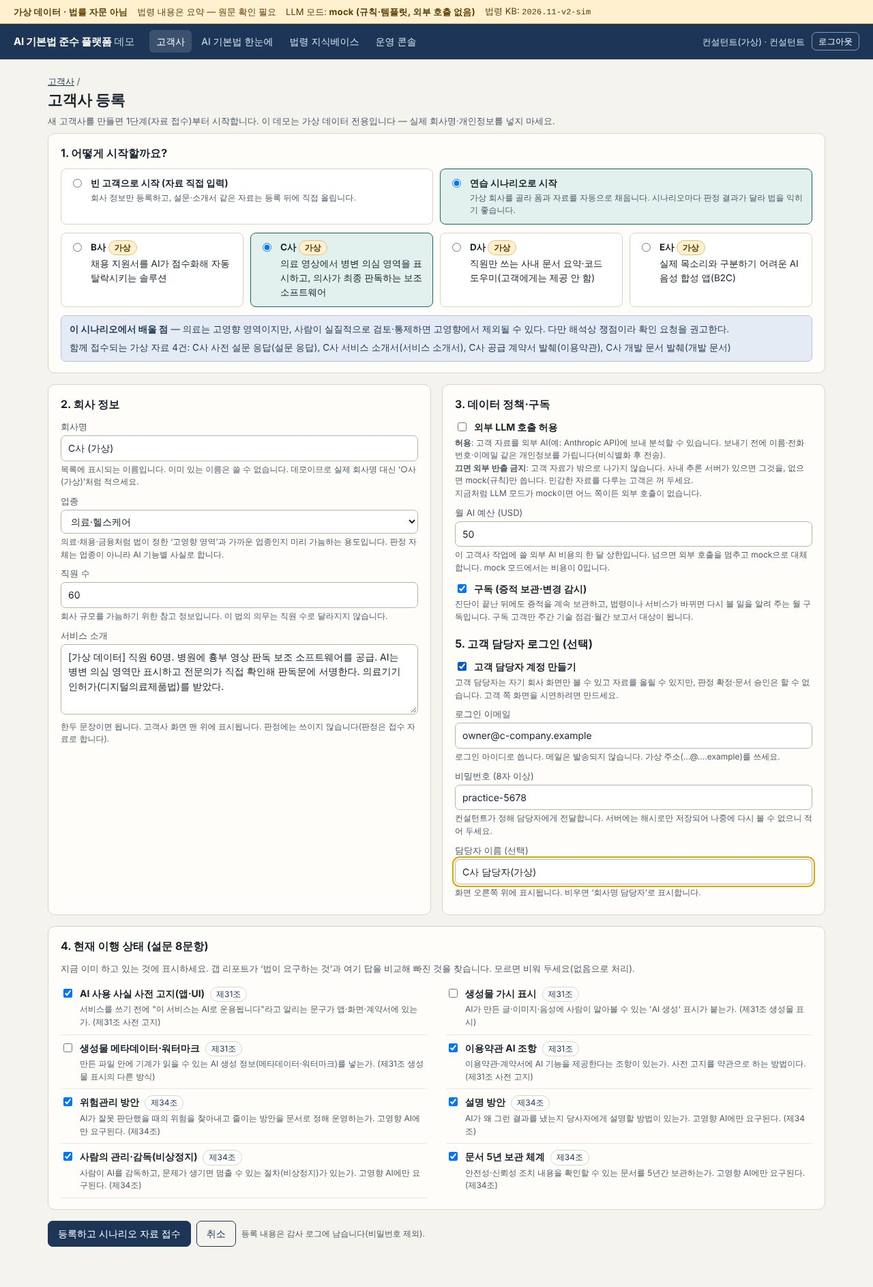
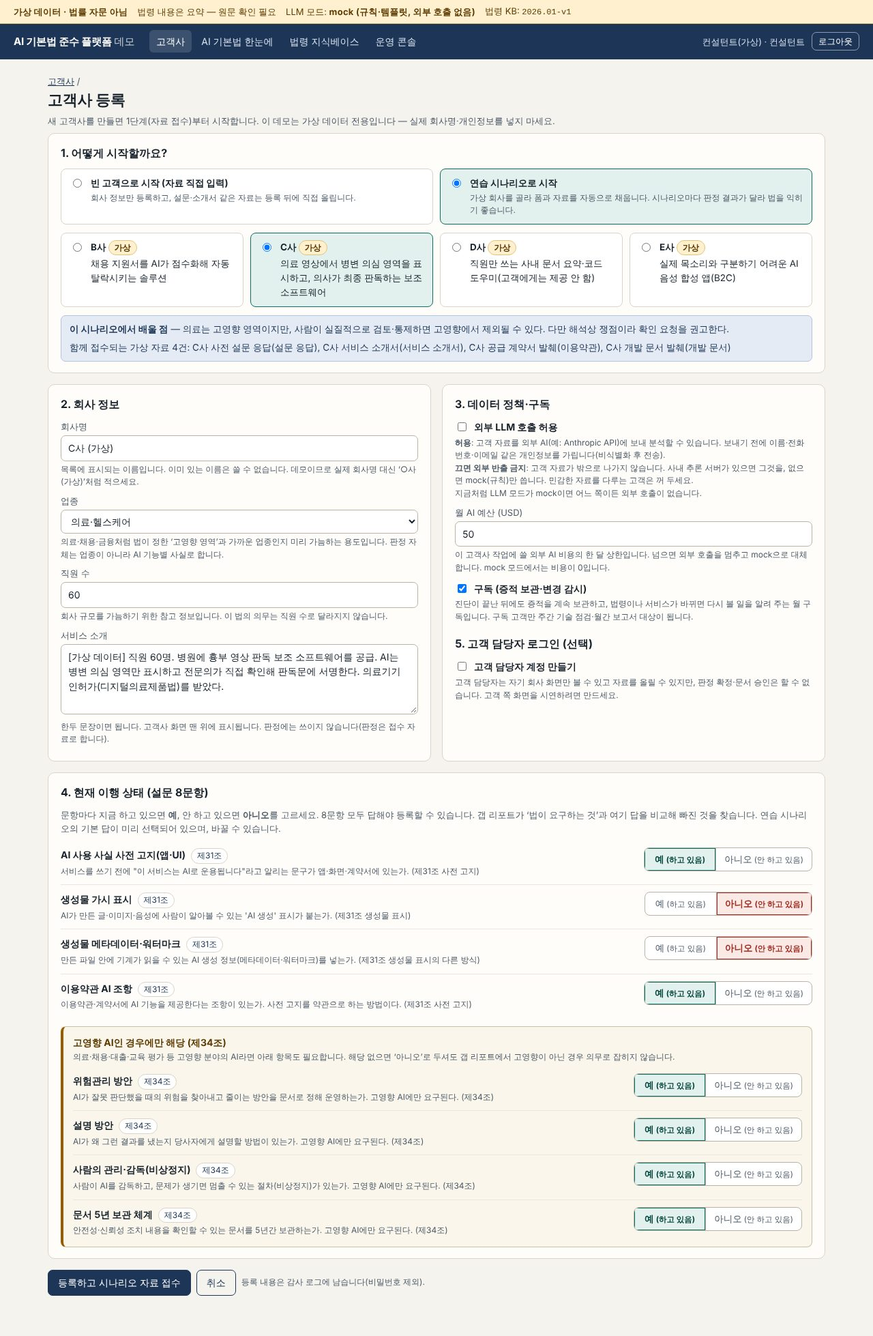
웹: 설문 8문항을 예/아니오 선택으로 바꾸고 고영향(제34조) 항목을 안쪽 상자로 묶음
- 등록 폼 "4. 현재 이행 상태": 체크박스 → 문항별 예(하고 있음)/아니오(안 하고 있음) 라디오 그룹
  - 빈 고객은 미리 선택 없음, 8문항 모두 답해야 등록(안 고른 문항 옆에 안내 표시)
  - 연습 시나리오를 고르면 기본 답이 미리 선택되고 바꿀 수 있음
- 제31조 4문항은 그대로, 제34조 4문항은 "고영향 AI인 경우에만 해당 (제34조)" 상자로 분리
- 개요 화면 "현재 이행 상태(설문)"도 같은 두 묶음, 배지는 예/아니오
- API·DB 변경 없음(답은 boolean, API에서 빠진 답은 전과 같이 false)
- 문서: 사용 가이드 문구와 등록 폼 캡처 갱신, 검증 기록 추가

Claude-Session: https://claude.ai/code/session_01CRnCUpRNst2zzBjfRGCeRx

Changed region(s): [[0.0, 0.0, 0.9375, 0.9841], [0.8125, 0.0, 1.0, 0.0615], [0.3125, 0.9533, 0.3438, 0.9841]]

diff --git a/web/app/customers/new/page.tsx b/web/app/customers/new/page.tsx
@@ -1,19 +1,20 @@
 "use client";
 import Link from "next/link";
 import { useRouter } from "next/navigation";
-import { useEffect, useState } from "react";
+import { useEffect, useRef, useState } from "react";
 import { api, useLoad } from "@/lib/api";
 import { useSession } from "@/components/Shell";
-import { DOC_KIND } from "@/lib/labels";
+import { DOC_KIND, isHighImpactStateKey } from "@/lib/labels";
 
 type Scenario = {
   key: string; letter: string; name: string; title: string; industry: string; employees: number; description: string;
   allow_external: boolean; monthly_budget_usd: number; subscribed: boolean; current_state: Record<string, boolean>;
   selectable: boolean; lesson: string; points: string[]; documents: { kind: string; title: string }[];
 };
+type StateItem = { key: string; label: string; help: string; clause_ids: string[] };
 type Catalog = {
   industries: string[];
-  state_items: { key: string; label: string; help: string; clause_ids: string[] }[];
+  state_items: StateItem[];
   scenarios: Scenario[];
 };
 
@@ -28,7 +29,10 @@ export default function NewCustomerPage() {
   const [mode, setMode] = useState<"blank" | "scenario">("blank");
   const [scenario, setScenario] = useState("");
   const [form, setForm] = useState(EMPTY);
+  // 설문 답: true=예, false=아니오, 키 없음=아직 답하지 않음(등록 불가)
   const [state, setState] = useState<Record<string, boolean>>({});
+  const [tried, setTried] = useState(false); // 등록을 한 번 눌렀는지 — 그 뒤에만 '답하지 않음' 안내를 보인다
+  const surveyRef = useRef<HTMLDivElement>(null);
   const [withContact, setWithContact] = useState(false);
   const [contact, setContact] = useState({ email: "", password: "", name: "" });
   const [error, setError] = useState("");
@@ -37,6 +41,8 @@ export default function NewCustomerPage() {
   const selectable = (cat.data?.scenarios ?? []).filter((s) => s.selectable);
   const picked = selectable.find((s) => s.key === scenario);
   const ready = !!cat.data && !!existing.data; // 기존 회사명을 알아야 중복 없는 이름을 제안할 수 있다
+  const items = cat.data?.state_items ?? [];
+  const unanswered = items.filter((i) => typeof state[i.key] !== "boolean");
 
   function uniqueName(base: string): string {
     const taken = new Set((existing.data ?? []).map((c) => c.name));
@@ -56,12 +62,16 @@ export default function NewCustomerPage() {
     setForm({ name: uniqueName(s.name), industry: s.industry, employees: String(s.employees), description: s.description,
       allow_external: s.allow_external, monthly_budget_usd: String(s.monthly_budget_usd), subscribed: s.subscribed });
     setState({ ...s.current_state });
+    setTried(false);
+    setError("");
   }
   function blank() {
     setMode("blank");
     setScenario("");
     setForm(EMPTY);
     setState({});
+    setTried(false);
+    setError("");
   }
 
   // 학습 화면에서 넘어온 경우(?scenario=b) 그 시나리오를 미리 고른다
@@ -75,12 +85,21 @@ export default function NewCustomerPage() {
   async function submit(e: React.FormEvent) {
     e.preventDefault();
     setError("");
+    if (!cat.data) return;
+    if (unanswered.length > 0) {
+      setTried(true);
+      setError(`‘4. 현재 이행 상태’에서 답하지 않은 문항이 ${unanswered.length}개 있습니다. 문항마다 예 또는 아니오를 골라 주세요.`);
+      const first = surveyRef.current?.querySelector<HTMLInputElement>(`input[name="q-${unanswered[0].key}"]`);
+      first?.focus();
+      first?.closest(".q")?.scrollIntoView({ block: "center" });
+      return;
+    }
     setBusy(true);
     try {
       const body: any = {
         name: form.name, industry: form.industry, employees: Number(form.employees || 0), description: form.description,
         allow_external: form.allow_external, monthly_budget_usd: Number(form.monthly_budget_usd || 0), subscribed: form.subscribed,
-        current_state: Object.fromEntries((cat.data?.state_items ?? []).map((i) => [i.key, !!state[i.key]])),
+        current_state: Object.fromEntries(items.map((i) => [i.key, state[i.key] === true])),
         scenario: mode === "scenario" ? scenario : "",
       };
       if (withContact) body.contact = contact;
@@ -90,6 +109,35 @@ export default function NewCustomerPage() {
       setError((err as Error).message);
       setBusy(false);
     }
+  }
+
+  function question(i: StateItem) {
+    const v = state[i.key];
+    const missing = tried && typeof v !== "boolean";
+    const set = (val: boolean) => setState((prev) => ({ ...prev, [i.key]: val }));
+    return (
+      <div key={i.key} className={`q${missing ? " missing" : ""}`}>
+        <div className="qtext">
+          <span id={`ql-${i.key}`}><b>{i.label}</b></span>{" "}
+          {i.clause_ids.map((c) => <Link key={c} href={`/kb#${c}`} target="_blank" className="tag" style={{ marginLeft: 4 }}>{c.startsWith("art31") ? "제31조" : c === "art34" ? "제34조" : c}</Link>)}
+          <span className="hint" id={`qh-${i.key}`}>{i.help}</span>
+        </div>
+        <div className="qans">
+          <div className="seg" role="radiogroup" aria-labelledby={`ql-${i.key}`} aria-describedby={`qh-${i.key}${missing ? ` qe-${i.key}` : ""}`}
+            aria-required="true" aria-invalid={missing || undefined}>
+            <label className={v === true ? "on yes" : ""}>
+              <input type="radio" name={`q-${i.key}`} value="yes" checked={v === true} onChange={() => set(true)} />
+              <span>예<small>(하고 있음)</small></span>
+            </label>
+            <label className={v === false ? "on no" : ""}>
+              <input type="radio" name={`q-${i.key}`} value="no" checked={v === false} onChange={() => set(false)} />
+              <span>아니오<small>(안 하고 있음)</small></span>
+            </label>
+          </div>
+          {missing && <span className="qerr" id={`qe-${i.key}`} role="alert">예 또는 아니오를 선택하세요</span>}
+        </div>
+      </div>
+    );
   }
 
   if (user && !allowed) return <div className="msg err">고객사 등록은 컨설턴트·운영자만 할 수 있습니다.</div>;
@@ -204,17 +252,25 @@ export default function NewCustomerPage() {
 
         <div className="card">
           <h2>4. 현재 이행 상태 (설문 8문항)</h2>
-          <p className="sub">지금 이미 하고 있는 것에 표시하세요. 갭 리포트가 ‘법이 요구하는 것’과 여기 답을 비교해 빠진 것을 찾습니다. 모르면 비워 두세요(없음으로 처리).</p>
-          <div className="qlist">
-            {(cat.data?.state_items ?? []).map((i) => (
-              <label key={i.key} className="check q">
-                <input type="checkbox" checked={!!state[i.key]} onChange={(e) => setState({ ...state, [i.key]: e.target.checked })} />
-                <span>
-                  <b>{i.label}</b> {i.clause_ids.map((c) => <Link key={c} href={`/kb#${c}`} target="_blank" className="tag" style={{ marginLeft: 4 }}>{c.startsWith("art31") ? "제31조" : c === "art34" ? "제34조" : c}</Link>)}
-                  <span className="hint">{i.help}</span>
-                </span>
-              </label>
-            ))}
+          <p className="sub">
+            문항마다 지금 하고 있으면 <b>예</b>, 안 하고 있으면 <b>아니오</b>를 고르세요. 8문항 모두 답해야 등록할 수 있습니다.
+            갭 리포트가 ‘법이 요구하는 것’과 여기 답을 비교해 빠진 것을 찾습니다.
+            {mode === "scenario" && " 연습 시나리오의 기본 답이 미리 선택되어 있으며, 바꿀 수 있습니다."}
+          </p>
+          <div ref={surveyRef}>
+            <div className="qlist">
+              {items.filter((i) => !isHighImpactStateKey(i.key)).map(question)}
+            </div>
+            <section className="qbox" aria-labelledby="qbox-title">
+              <h3 id="qbox-title">고영향 AI인 경우에만 해당 (제34조)</h3>
+              <p className="hint">
+                의료·채용·대출·교육 평가 등 고영향 분야의 AI라면 아래 항목도 필요합니다.
+                해당 없으면 ‘아니오’로 두셔도 갭 리포트에서 고영향이 아닌 경우 의무로 잡히지 않습니다.
+              </p>
+              <div className="qlist">
+                {items.filter((i) => isHighImpactStateKey(i.key)).map(question)}
+              </div>
+            </section>
           </div>
         </div>
 

diff --git a/docs/guide/index.html b/docs/guide/index.html
@@ -202,7 +202,7 @@ footer{margin-top:40px;padding-top:16px;border-top:1px solid var(--line);font-si
     <div class="quad">
       <div><h4>무엇인가</h4><p>고객 기본 정보, 고객이 설문으로 답한 현재 이행 상태, 데이터 정책, 그리고 8단계 버튼이 모인 출발 화면</p></div>
       <div><h4>어떻게 쓰나</h4><ol><li><span class="btn">샘플 자료 불러오기(가상)</span> → 가상 자료 4건이 들어옴</li><li>오른쪽 버튼을 위에서부터 차례로 누르면 단계가 진행됨</li><li>실제 고객이라면 아래 "자료 올리기"에 문서를 넣음</li></ol></div>
-      <div><h4>결과 읽는 법</h4><ul><li><b>현재 이행 상태(설문)</b>: 빨간 "없음" = 고객이 아직 안 하고 있는 것. A사는 생성물 가시 표시만 "있음"</li><li><b>외부 LLM 호출</b>: "허용(비식별화 후 전송)" = 이름·연락처 등을 가린 뒤 AI에 보냄</li><li><b>월 예산</b>: 이 고객에게 쓸 AI 비용 한도와 사용액</li></ul></div>
+      <div><h4>결과 읽는 법</h4><ul><li><b>현재 이행 상태(설문)</b>: 빨간 "아니오" = 고객이 아직 안 하고 있는 것. A사는 생성물 가시 표시만 "예"(이전 캡처에는 "있음/없음"). 고영향 AI에만 해당하는 4항목(제34조)은 안쪽 상자로 묶임</li><li><b>외부 LLM 호출</b>: "허용(비식별화 후 전송)" = 이름·연락처 등을 가린 뒤 AI에 보냄</li><li><b>월 예산</b>: 이 고객에게 쓸 AI 비용 한도와 사용액</li></ul></div>
       <div><h4>주의</h4><p><span class="btn">외부 반출 금지로 전환</span>을 누르면 이 고객 자료는 외부 AI(Claude)로 절대 나가지 않고 내부 모델이나 규칙으로만 처리됩니다.</p></div>
       <div class="say"><h4>경영진에게 한 줄</h4><p>"고객이 자료를 올리면 버튼 몇 번으로 진단부터 보관까지 진행되고, 고객 자료를 외부로 보낼지 말지도 고객별로 막을 수 있습니다."</p></div>
     </div>
@@ -349,7 +349,7 @@ footer{margin-top:40px;padding-top:16px;border-top:1px solid var(--line);font-si
     <div class="quad">
       <div><h4>무엇인가</h4><p>새 고객사를 만드는 화면. 등록하면 1단계(자료 접수)부터 A사와 같은 8단계를 처음부터 밟습니다.</p></div>
       <div><h4>어떻게 쓰나</h4><ul><li><b>빈 고객으로 시작</b>: 회사 정보만 넣고 자료는 나중에 직접 올림</li><li><b>연습 시나리오로 시작</b>: B~E사 중 하나를 고르면 폼과 가상 자료가 채워짐</li><li>고객 담당자 로그인(이메일·비밀번호)을 함께 만들 수 있음</li></ul></div>
-      <div><h4>항목 읽는 법</h4><ul><li><b>외부 LLM 호출 허용</b>: 켜면 개인정보를 가린 뒤 외부 AI로 전송, 끄면 외부 반출 금지</li><li><b>현재 이행 상태 8문항</b>: 지금 이미 하고 있는 것. 갭 리포트가 이 답과 법의 요구를 비교</li></ul></div>
+      <div><h4>항목 읽는 법</h4><ul><li><b>외부 LLM 호출 허용</b>: 켜면 개인정보를 가린 뒤 외부 AI로 전송, 끄면 외부 반출 금지</li><li><b>현재 이행 상태 8문항</b>: 문항마다 예(하고 있음) / 아니오(안 하고 있음)를 고름. 8문항 모두 답해야 등록됨(시나리오는 기본 답이 미리 선택). 갭 리포트가 이 답과 법의 요구를 비교</li><li><b>안쪽 상자 "고영향 AI인 경우에만 해당 (제34조)"</b>: 고영향 후보가 아니면 "아니오"여도 갭으로 잡히지 않음</li></ul></div>
       <div><h4>주의</h4><p>같은 회사명은 다시 쓸 수 없습니다. 가상 데이터 전용이므로 실제 회사명·개인정보를 넣지 마세요. 등록은 감사 로그에 남습니다.</p></div>
       <div class="say"><h4>경영진에게 한 줄</h4><p>"새 고객이 오면 여기서 등록하고, 그 순간부터 진단 8단계가 같은 방식으로 돌아갑니다."</p></div>
     </div>
@@ -392,7 +392,7 @@ footer{margin-top:40px;padding-top:16px;border-top:1px solid var(--line);font-si
   <p class="note">consultant@demo로 로그인한 상태에서 시작합니다. A사를 처음부터 보여주려면 개요에서 "샘플 자료 불러오기(가상)"부터 누르세요.</p>
   <ol class="script">
     <li><span class="t">0~1분</span><div><b>문제 제기</b>: "AI 기본법이 1월에 시행됐고 과태료 계도기간이 끝나면 고지 위반만으로 3천만원입니다. 생성형 AI를 서비스에 쓰는 입주사들이 대상입니다."</div></li>
-    <li><span class="t">1~2분</span><div><b>개요·자료</b>: 가상 고객 A사 소개, 설문상 빨간 "없음" 항목들</div></li>
+    <li><span class="t">1~2분</span><div><b>개요·자료</b>: 가상 고객 A사 소개, 설문상 빨간 "아니오" 항목들</div></li>
     <li><span class="t">2~3분</span><div><b>AI 인벤토리</b>: "AI가 문서를 읽고 AI 3개를 찾았고, 모든 내용에 출처가 있습니다."</div></li>
     <li><span class="t">3~5분</span><div><b>판정</b>: 이미지 생성 판정 하나를 펼쳐 근거 조문과 원문을 보여주고, 고객문의 요약의 "내부 업무용 예외"를 대비해서 보여줌. "확정은 사람이 합니다."</div></li>
     <li><span class="t">5~6분</span><div><b>갭 리포트</b>: "고칠 것 3건, 담당·기한까지 나옵니다. 여기까지가 진단 상품입니다."</div></li>

diff --git a/web/app/globals.css b/web/app/globals.css
@@ -104,10 +104,30 @@ label.pick.on { border-color: var(--accent); background: var(--accent-soft); }
 label.pick input, label.check input { width: auto; margin-top: 4px; flex: none; }
 label.pick > span { display: flex; flex-direction: column; gap: 2px; }
 label.check { display: flex; gap: 8px; align-items: flex-start; color: var(--ink); font-size: 14px; margin: 10px 0 2px; cursor: pointer; }
-label.check.q { padding: 8px 0; margin: 0; border-bottom: 1px solid #ebe7dd; }
-label.check.q:last-child { border-bottom: 0; }
-label.check.q .hint { display: block; margin-top: 2px; }
-.qlist { display: grid; grid-template-columns: repeat(auto-fit, minmax(420px, 1fr)); column-gap: 28px; }
+/* 설문 문항: 왼쪽 설명, 오른쪽 예/아니오 */
+.q { display: flex; gap: 8px 20px; align-items: flex-start; justify-content: space-between; flex-wrap: wrap; padding: 10px 0; border-bottom: 1px solid #ebe7dd; font-size: 14px; }
+.qlist > .q:last-child { border-bottom: 0; }
+.q .qtext { flex: 1 1 340px; min-width: 0; }
+.q .qtext .hint { display: block; margin-top: 2px; }
+.q .qans { flex: none; display: flex; flex-direction: column; align-items: flex-end; gap: 4px; }
+.q.missing .seg { border-color: var(--bad); box-shadow: 0 0 0 2px var(--bad-soft); }
+.qerr { font-size: 12px; font-weight: 600; color: var(--bad); }
+.seg { display: inline-flex; border: 1px solid #b9b3a5; border-radius: 8px; background: #fff; overflow: hidden; }
+.seg label { position: relative; margin: 0; padding: 6px 12px; min-width: 104px; text-align: center; font-size: 13.5px; color: var(--ink-2); cursor: pointer; white-space: nowrap; }
+.seg label + label { border-left: 1px solid #b9b3a5; }
+.seg input { position: absolute; inset: 0; width: 100%; height: 100%; margin: 0; opacity: 0; cursor: pointer; }
+.seg small { font-size: 11.5px; margin-left: 3px; }
+.seg label:hover { background: #f3f0e8; }
+.seg label.on { font-weight: 700; }
+.seg label.on.yes { background: var(--accent-soft); color: #07483e; box-shadow: inset 0 0 0 1px var(--accent); }
+.seg label.on.no { background: var(--bad-soft); color: var(--bad); box-shadow: inset 0 0 0 1px var(--bad); }
+.seg label:focus-within { outline: 2px solid var(--navy); outline-offset: -2px; }
+/* 고영향(제34조) 항목을 묶는 안쪽 상자 */
+.qbox { margin-top: 12px; padding: 12px 14px 4px; border: 1px solid #c9bfa6; border-left: 4px solid var(--warn); border-radius: 8px; background: #faf6ec; }
+.qbox h3 { margin: 0 0 2px; font-size: 14px; color: #5c3a00; }
+.qbox > .hint { margin: 0 0 4px; }
+.qbox.ro { margin-top: 8px; padding: 8px 10px; }
+.qbox.ro h3 { font-size: 12.5px; margin-bottom: 4px; }
 form p.hint { margin: 3px 0 6px; }
 a.tag { text-decoration: none; }
 a.tag:hover { border-color: var(--navy); }

diff --git a/web/app/customers/[id]/page.tsx b/web/app/customers/[id]/page.tsx
@@ -4,7 +4,7 @@ import { useState } from "react";
 import { api, fmt, useLoad } from "@/lib/api";
 import { Action, CustomerFrame, useCustomer } from "@/components/CustomerFrame";
 import { useSession } from "@/components/Shell";
-import { DOC_KIND } from "@/lib/labels";
+import { DOC_KIND, isHighImpactStateKey } from "@/lib/labels";
 import { STEP_HELP } from "@/lib/learn";
 
 const EXAMPLE_DOC = `[가상 데이터] 서비스 소개 메모
@@ -60,6 +60,11 @@ export default function CustomerOverview() {
       el: <Action label="증적 보관" path={`${base}/evidence/store-package`} roles={["consultant"]} onDone={reloadAll} /> },
   ];
 
+  const stateEntries = Object.entries(customer?.current_state ?? {}) as [string, boolean][];
+  const stateRow = ([k, v]: [string, boolean]) => (
+    <li key={k}>{meta?.state_labels[k] ?? k}: {v ? <span className="tag ok">예</span> : <span className="tag bad">아니오</span>}</li>
+  );
+
   const sc = (cat.data?.scenarios ?? []).find((x: any) => x.key === customer?.scenario);
 
   return (
@@ -90,11 +95,15 @@ export default function CustomerOverview() {
               <dt>현재 이행 상태(설문)</dt>
               <dd>
                 {Object.keys(customer.current_state).length === 0 ? <span className="sub">설문 접수 전</span> : (
-                  <ul className="plain">
-                    {Object.entries(customer.current_state).map(([k, v]) => (
-                      <li key={k}>{meta?.state_labels[k] ?? k}: {v ? <span className="tag ok">있음</span> : <span className="tag bad">없음</span>}</li>
-                    ))}
-                  </ul>
+                  <>
+                    <ul className="plain">{stateEntries.filter(([k]) => !isHighImpactStateKey(k)).map(stateRow)}</ul>
+                    {stateEntries.some(([k]) => isHighImpactStateKey(k)) && (
+                      <div className="qbox ro">
+                        <h3>고영향 AI인 경우에만 해당 (제34조)</h3>
+                        <ul className="plain">{stateEntries.filter(([k]) => isHighImpactStateKey(k)).map(stateRow)}</ul>
+                      </div>
+                    )}
+                  </>
                 )}
               </dd>
             </dl>

diff --git a/web/lib/labels.ts b/web/lib/labels.ts
@@ -49,3 +49,7 @@ export const EVIDENCE_KIND: Record<string, string> = {
   "document:risk_policy": "승인 문서 — 위험관리 정책",
   "document:impact_checklist": "승인 문서 — 영향평가 체크리스트",
 };
+
+// '현재 이행 상태' 설문 중 고영향 AI에만 요구되는 항목(제34조). 갭 리포트는 고영향 후보 시스템이 있을 때만 이 항목을 본다.
+const HIGH_IMPACT_STATE_KEYS = new Set(["risk_policy", "explanation_method", "human_oversight_killswitch", "doc_retention_5y"]);
+export const isHighImpactStateKey = (key: string) => HIGH_IMPACT_STATE_KEYS.has(key);

diff --git a/docs/USER_GUIDE.md b/docs/USER_GUIDE.md
@@ -108,7 +108,7 @@
 |---|---|
 | **무엇인가** | 고객 기본 정보, 고객이 설문으로 답한 현재 이행 상태, 데이터 정책, 그리고 8단계 버튼이 모인 출발 화면 |
 | **어떻게 쓰나** | ① `샘플 자료 불러오기(가상)` → 가상 자료 4건이 들어옴 ② 오른쪽 버튼을 위에서부터 차례로 누르면 단계가 진행됨 ③ 실제 고객이라면 아래 "자료 올리기"에 문서를 넣음 |
-| **결과 읽는 법** | **현재 이행 상태(설문)**: 빨간 "없음" = 고객이 아직 안 하고 있는 것. A사는 생성물 가시 표시만 "있음" · **외부 LLM 호출**: "허용(비식별화 후 전송)" = 이름·연락처 등을 가린 뒤 AI에 보냄 · **월 예산**: 이 고객에게 쓸 AI 비용 한도와 사용액 |
+| **결과 읽는 법** | **현재 이행 상태(설문)**: 빨간 "아니오" = 고객이 아직 안 하고 있는 것. A사는 생성물 가시 표시만 "예"(이전 캡처에는 "있음/없음"으로 보입니다). 고영향 AI에만 해당하는 4항목(제34조)은 안쪽 상자로 따로 묶여 있습니다 · **외부 LLM 호출**: "허용(비식별화 후 전송)" = 이름·연락처 등을 가린 뒤 AI에 보냄 · **월 예산**: 이 고객에게 쓸 AI 비용 한도와 사용액 |
 | **주의** | `외부 반출 금지로 전환`을 누르면 이 고객 자료는 외부 AI로 절대 나가지 않고 내부 모델이나 규칙으로만 처리됩니다 |
 | **경영진에게 한 줄** | "고객이 자료를 올리면 버튼 몇 번으로 진단부터 보관까지 진행되고, 고객 자료를 외부로 보낼지 말지도 고객별로 막을 수 있습니다." |
 
@@ -257,7 +257,7 @@
 |---|---|
 | **무엇인가** | 새 고객사를 만드는 화면. 등록하면 1단계(자료 접수)부터 A사와 똑같은 8단계를 처음부터 밟습니다 |
 | **어떻게 쓰나** | ① 시작 방식을 고릅니다: **빈 고객으로 시작**(회사 정보만 넣고 자료는 나중에 직접 올림) 또는 **연습 시나리오로 시작**(B~E사 중 하나를 고르면 폼과 가상 자료가 자동으로 채워짐) ② 회사 정보·데이터 정책·설문 8문항을 확인하거나 고칩니다 ③ `고객사 등록`(시나리오면 `등록하고 시나리오 자료 접수`) |
-| **항목 읽는 법** | 모든 항목 아래에 한 줄 설명이 있습니다. 헷갈리기 쉬운 것만 추리면: **외부 LLM 호출 허용** = 켜면 개인정보를 가린 뒤 외부 AI로 보낼 수 있고, 끄면 자료가 밖으로 나가지 않음(외부 반출 금지) · **월 AI 예산** = 외부 AI 비용 상한, 넘으면 mock으로 대체 · **구독** = 진단 후에도 증적 보관과 변경 감시를 계속 받는지 · **현재 이행 상태 8문항** = "지금 이미 하고 있는 것". 갭 리포트가 이 답과 법의 요구를 비교합니다. 문항마다 관련 조문(제31조 / 제34조) 태그가 붙어 있고 누르면 조문 요약이 열립니다 |
+| **항목 읽는 법** | 모든 항목 아래에 한 줄 설명이 있습니다. 헷갈리기 쉬운 것만 추리면: **외부 LLM 호출 허용** = 켜면 개인정보를 가린 뒤 외부 AI로 보낼 수 있고, 끄면 자료가 밖으로 나가지 않음(외부 반출 금지) · **월 AI 예산** = 외부 AI 비용 상한, 넘으면 mock으로 대체 · **구독** = 진단 후에도 증적 보관과 변경 감시를 계속 받는지 · **현재 이행 상태 8문항** = 문항마다 **예(하고 있음) / 아니오(안 하고 있음)** 중 하나를 고릅니다. 빈 고객은 아무것도 선택되어 있지 않고, 8문항을 모두 답해야 등록됩니다(안 고른 문항 옆에 "예 또는 아니오를 선택하세요"가 뜹니다). 연습 시나리오를 고르면 그 시나리오의 기본 답이 미리 선택되며 바꿀 수 있습니다. 위 4문항은 제31조(고지·표시), 아래 안쪽 상자 **"고영향 AI인 경우에만 해당 (제34조)"** 의 4문항은 고영향 AI에만 요구되는 것입니다 — 판정에서 고영향 후보가 나오지 않으면 여기를 "아니오"로 두어도 갭으로 잡히지 않습니다. 갭 리포트가 이 답과 법의 요구를 비교합니다. 문항마다 관련 조문(제31조 / 제34조) 태그가 붙어 있고 누르면 조문 요약이 열립니다 |
 | **고객 담당자 로그인(선택)** | 이메일과 비밀번호(8자 이상)를 정하면 그 고객사 전용 계정이 생깁니다. 로그아웃 후 그 계정으로 들어가면 고객 쪽 화면을 시연할 수 있습니다: 자기 회사만 보이고, 자료는 올릴 수 있지만 확정·승인 버튼은 비활성화됩니다. 비밀번호는 해시로만 저장되어 다시 볼 수 없습니다 |
 | **주의** | 같은 회사명은 다시 쓸 수 없습니다(시나리오를 두 번 고르면 "B사 2 (가상)"처럼 이름을 바꿔 제안). 데모는 가상 데이터 전용이라 실제 회사명·개인정보를 넣지 마세요. 등록 사실은 감사 로그(`customer.create`)에 남습니다 |
 | **빈 고객으로 등록했다면** | 개요 화면의 `자료 올리기`에서 직접 입력합니다. `작성 예시 넣기`를 누르면 형식을 볼 수 있습니다. mock 모드는 키워드 규칙으로 읽기 때문에 **"AI 활용 기능: 기능1, 기능2"** 줄이 있어야 시스템을 찾습니다 |
@@ -292,7 +292,7 @@
 3. **E사** → 같은 순서. 판정에서 "제31조 딥페이크 고지: 필요"를 확인합니다.
 4. **B사** → 같은 순서. 판정 근거에서 "채용 영역 → 중대한 영향 → 사람 검토 없음"이 조문·원문과 함께 나오는 것, 갭 8건, 문서 초안에 위험관리 정책 골격과 영향평가 체크리스트가 생기는 것을 봅니다.
 5. **C사** → 같은 순서. B사와 판정 화면을 나란히 놓고 `사람 검토 쟁점` 줄을 비교합니다.
-6. 실험: 같은 시나리오를 한 번 더 등록하면서 설문 답을 바꿔 봅니다(예: E사에서 "생성물 가시 표시"를 체크 → 갭이 3건에서 2건으로). AI 인벤토리 탭에서 사실을 고치고(예: C사의 `사람의 실질 검토`를 "검토 없음"으로) `판정 초안 생성(재판정)`을 누르면 결과가 고영향 후보로 바뀝니다.
+6. 실험: 같은 시나리오를 한 번 더 등록하면서 설문 답을 바꿔 봅니다(예: E사에서 "생성물 가시 표시"를 "예"로 바꿈 → 갭이 3건에서 2건으로). AI 인벤토리 탭에서 사실을 고치고(예: C사의 `사람의 실질 검토`를 "검토 없음"으로) `판정 초안 생성(재판정)`을 누르면 결과가 고영향 후보로 바뀝니다.
 
 **읽을 때 조심할 것**
 
@@ -333,7 +333,7 @@
 | 시간 | 화면 | 말할 내용 |
 |---|---|---|
 | 0~1분 | (도입) | "AI 기본법이 1월에 시행됐고, 과태료 계도기간이 끝나면 고지 위반만으로 3천만원입니다. 생성형 AI를 서비스에 쓰는 입주사들이 대상입니다." |
-| 1~2분 | 개요·자료 | 가상 고객 A사 소개, 설문상 빨간 "없음" 항목들 |
+| 1~2분 | 개요·자료 | 가상 고객 A사 소개, 설문상 빨간 "아니오" 항목들 |
 | 2~3분 | AI 인벤토리 | "AI가 문서를 읽고 AI 3개를 찾았고, 모든 내용에 출처가 있습니다." |
 | 3~5분 | 판정 | 이미지 생성 판정을 펼쳐 근거 조문과 원문을 보여주고, 고객문의 요약의 "내부 업무용 예외"와 대비. "확정은 사람이 합니다." |
 | 5~6분 | 갭 리포트 | "고칠 것 3건, 담당·기한까지 나옵니다. 여기까지가 진단 상품입니다." |

diff --git a/docs/VERIFICATION.md b/docs/VERIFICATION.md
@@ -400,3 +400,29 @@ $ docker compose build api     → Cannot connect to the Docker daemon at unix:/
 ## I. 정리
 
 검증 후 `scripts/dev.sh down --purge`로 모든 프로세스를 중지하고 임시 PGDATA(`.devdata/`)를 삭제했습니다. `scripts/dev.sh status`는 web·api·demo·postgres 모두 중지, 8000·3000·8081·55432 포트에 남은 프로세스 없음. 이전 버전 확인용 작업 트리도 제거했습니다.
+
+---
+
+# 추가 검증 — 설문 8문항 예/아니오 전환 (2026-11-18)
+
+등록 폼 "4. 현재 이행 상태"를 체크박스에서 **예(하고 있음) / 아니오(안 하고 있음)** 선택으로 바꾸고, 제34조 4문항을 안쪽 상자 "고영향 AI인 경우에만 해당 (제34조)"로 묶었습니다. 개요 화면의 "현재 이행 상태(설문)"도 같은 두 묶음, 예/아니오 배지로 바꿨습니다. API·DB는 바꾸지 않았습니다(답은 그대로 boolean, API로 직접 보낼 때 빠진 답은 전과 같이 false).
+
+```
+$ cd web && npx tsc --noEmit     → 출력 없음, 종료 코드 0
+$ cd web && npm run build        → 성공 (/customers/new 포함 16개 경로)
+$ cd api && python3 -m pytest -q → 93 passed
+```
+
+`scripts/dev.sh up`(새 DB, PostgreSQL 16, mock) 뒤 Playwright + Chromium(헤드리스, 1280px)으로 확인한 것 — 모두 OK, 페이지 오류 0건:
+
+- 라디오 16개(8문항×2), 빈 고객은 미리 선택된 답 없음, 안쪽 상자에 제34조 4문항, 옛 안내문("모르면 비워 두세요") 없음
+- 답하지 않고 등록 → 이동하지 않음, 문항 옆 "예 또는 아니오를 선택하세요" 8개 + 아래 요약 메시지. 7문항만 답해도 차단, 답한 문항의 안내는 사라짐
+- 키보드 방향키로 예/아니오 전환
+- 8문항 답하고 등록 → 개요 화면에 예 1 / 아니오 7, 안쪽 상자에 4항목
+- `?scenario=c` → 8문항 미리 선택(예 6 / 아니오 2), 하나를 고쳐 등록하면 고친 답이 반영되고 가상 자료 4건 접수
+- 시나리오에서 "빈 고객으로 시작"으로 바꾸면 선택이 모두 지워짐
+- 390px 폭에서 가로 넘침 없음(예/아니오가 설명 아래로 내려감)
+
+안쪽 상자 설명("해당 없으면 '아니오'로 두셔도 … 의무로 잡히지 않습니다")의 근거: `api/app/gap.py`는 판정 결과에 고영향 후보 시스템이 있을 때만 제34조 4항목(GAP-RISK·EXPLAIN·OVERSIGHT·RETENTION)을 봅니다. 기존 테스트의 D사(0건)·E사(3건, 제34조 갭 없음)가 4항목 모두 false인 상태에서 이를 확인합니다.
+
+`docs/guide/img/15-register-form.jpg`는 이 실행에서 다시 찍었습니다. **다시 찍지 않은 것**: 개요 화면이 나오는 이전 캡처(`02-overview.jpg`, `16-overview-step-help.jpg` 등)에는 여전히 "있음/없음" 배지와 한 줄 목록이 보입니다. 스크린 리더 실제 낭독은 확인하지 않았습니다(radiogroup·aria-labelledby·aria-invalid만 넣음). `scripts/e2e_smoke.py`·`ui_click_smoke.py`는 이번에 다시 돌리지 않았습니다(등록 폼을 다루지 않음). 검증 후 `scripts/dev.sh down --purge`로 정리했습니다.
